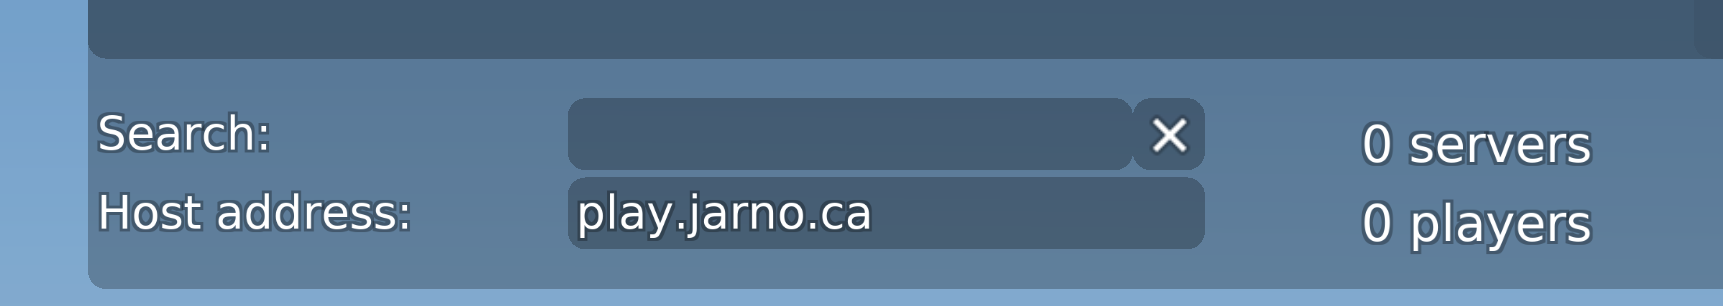
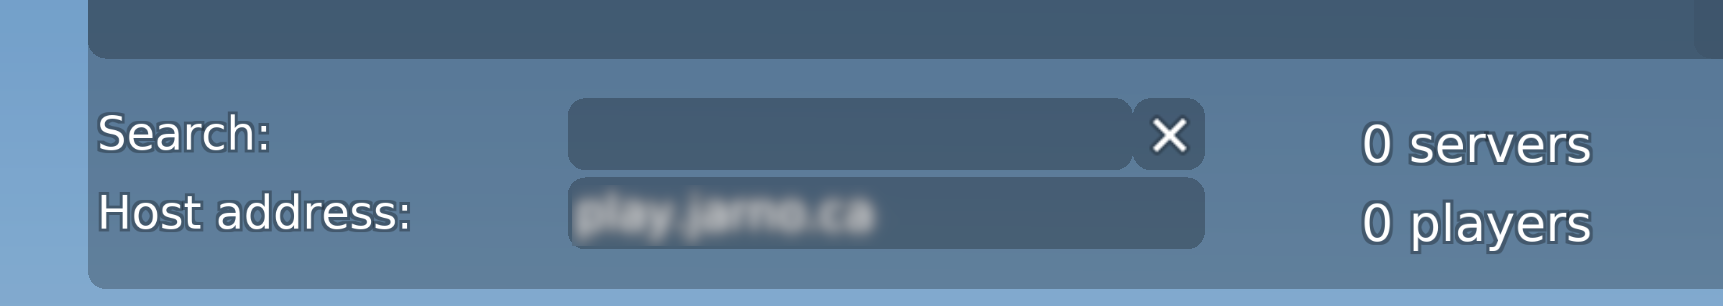
Remove play.jarno.ca from help screenshots

Changed region(s): [[0.3076, 0.6176, 0.5229, 0.7941]]

diff --git a/website/help_teeworlds.html b/website/help_teeworlds.html
@@ -12,6 +12,6 @@ game: teeworlds
           <p>Click on Settings and choose the Player tab. You can fill in your name so we can recognize you when you join the server. The Tee tab will also let you customize your appearance.</p>
           <img src="assets/img/help_teeworlds_name.png" alt="Teeworlds setting for player name" class="img-fluid">
           <p>To connect to the server, got back to the main menu and click Play.</p>
-          <p>At the bottom of the screen you can fill in the name of the server in the Host address field. Type {{ site.content.domain_name }} and press &lt;Enter&gt; or click Connect.</p>
+          <p>At the bottom of the screen you can fill in the name of the server in the Host address field. Type <span class="fw-bold">{{ site.content.domain_name }}</span> and press &lt;Enter&gt; or click Connect.</p>
           <img src="assets/img/help_teeworlds_server.png" alt="Joining the Teeworlds server" class="img-fluid">
           <p>You should now be connected.</p>

diff --git a/website/help_ufoai.html b/website/help_ufoai.html
@@ -20,6 +20,6 @@ cd dist
           <p>Click on Multiplayer. You'll need to create a team before you can do anything, so click on Team and then Generate New Team and choose the type you want.</p>
           <img src="assets/img/help_ufoai.png" alt="Generating a new team" class="img-fluid">
           <p>Click no the done button at the very bottom right if you are happy with it. You'll return to the multiplayer menu</p>
-          <p>Click on Join and type {{ site.content.domain_name }} in the field for Connect to IP and click Connect.</p>
+          <p>Click on Join and type <span class="fw-bold">{{ site.content.domain_name }}</span> in the field for Connect to IP and click Connect.</p>
           <img src="assets/img/help_ufoai_connect.png" alt="Joining the UFO:AI server" class="img-fluid">
           <p>You'll see a summary of the server. Click on Connect to connect.</p>

diff --git a/website/help_shatteredparadise.html b/website/help_shatteredparadise.html
@@ -23,8 +23,8 @@ game: shatteredparadise
           </p>
           <p>
             From the main menu, click on &quot;Multiplayer&quot; and then click
-            on &quot;Direct IP&quot;. Fill in {{ site.content.domain_name }} and set the port at
-            12340. The standard port is 1234, but is already taken. Then click on &quot;Join&quot;
+            on &quot;Direct IP&quot;. Fill in <span class="fw-bold">{{ site.content.domain_name }}</span> and set the port at
+            <span class="fw-bold">12340</span>. The standard port is 1234, but is already taken. Then click on &quot;Join&quot;
           </p>
           <img src="assets/img/help_shatteredparadise.png" alt="The join screen in Shattered Paradise" class="img-fluid">
           <p>You will be placed in the lobby with the other players</p>

diff --git a/website/help_mindustry.html b/website/help_mindustry.html
@@ -17,6 +17,6 @@ game: mindustry
             From the main menu choose &quot;Play&quot; and then &quot;Join
             Game&quot;. You will be able to set you in-game name here.
           </p>
-          <p>To join the server, click on &quot;Add Server&quot; and type in {{ site.content.domain_name }}. When you press Ok, it will be added under &quot;Remote Servers&quot;.</p>
+          <p>To join the server, click on &quot;Add Server&quot; and type in <span class="fw-bold">{{ site.content.domain_name }}</span>. When you press Ok, it will be added under &quot;Remote Servers&quot;.</p>
           <img src="assets/img/help_mindustry.png" alt="The join screen in Mindustry with the server added" class="img-fluid">
           <p>You can then click on the server name to join.</p>

diff --git a/website/help_lix.html b/website/help_lix.html
@@ -12,6 +12,6 @@ game: lix
           <h2>Connecting</h2>
           <p>Click on &quot;Options&quot;. Then under the &quot;General&quot; tab, you can input your player name. Click on &quot;Okay&quot; to confirm.</p>
           <p>Click on &quot;Network Game&quot;.</p>
-          <p>Under address, fill out {{ site.contents.domain_name }} and keep the port set to 22934. Then click on &quot;Okay&quot; to connect.</p>
+          <p>Under address, fill out <span class="fw-bold">{{ site.content.domain_name }}</span> and keep the port set to <span class="fw-bold">22934</span>. Then click on &quot;Okay&quot; to connect.</p>
           <p>You should see a room on the upper right. Click on that to join.</p>
           <p>Choose your colour and then click &quot;Okay&quot;</p>

diff --git a/website/help_minetest.html b/website/help_minetest.html
@@ -11,8 +11,8 @@ game: minetest
           </ul>
           <h2>Connecting</h2>
           <p>
-            Under address fill in {{ site.content.domain_name }} and keep the port at
-            30000. Click on Register to set your in-game name. You can leave the password blank
+            Under address fill in <span class="fw-bold">{{ site.content.domain_name }}</span> and keep the port at
+            <span class="fw-bold">30000</span>. Click on Register to set your in-game name. You can leave the password blank
             since this server will disappear after the event anyway.
           </p>
           <img src="assets/img/help_minetest.png" alt="The register screen in the Minetest client" class="img-fluid">

diff --git a/website/help_bzflag.html b/website/help_bzflag.html
@@ -11,7 +11,7 @@ game: bzflag
           <h2>Connecting</h2>
           <p>Use the arrow keys to nagivate to Join Game and press &lt;Enter&gt;.</p>
           <p>
-            Move down to Server and type {{ site.content.domain_name }} and keep the port number at 5154.
+            Move down to Server and type <span class="fw-bold">{{ site.content.domain_name }}</span> and keep the port number at <span class="fw-bold">5154</span>.
             You can also set your Callsign here. This is how other players will see
             your name. Then move up to Connect and press &lt;Enter&gt;.</p>
           <img src="assets/img/help_bzflag.png" alt="Server join screen for Bzflag" class="img-fluid">

diff --git a/website/help_openhv.html b/website/help_openhv.html
@@ -23,8 +23,8 @@ game: openhv
           </p>
           <p>
             From the main menu, click on &quot;Multiplayer&quot; and then click
-            on &quot;Direct IP&quot;. Fill in {{ site.content.domain_name }} and keep the port at
-            1234. Then click on &quot;Join&quot;
+            on &quot;Direct IP&quot;. Fill in <span class="fw-bold">{{ site.content.domain_name }}</span> and keep the port at
+            <span class="fw-bold">1234</span>. Then click on &quot;Join&quot;
           </p>
           <img src="assets/img/help_openhv.png" alt="The join screen in OpenHV" class="img-fluid">
           <p>You will be placed in the lobby with the other players</p>

diff --git a/website/help_supertuxkart.html b/website/help_supertuxkart.html
@@ -19,8 +19,8 @@ game: supertuxkart
             name. You don't have to set a password.
           </p>
           <p>
-            To connect to out server, click on &quot;Enter server address&quot;.
-            Then type in {{ site.content.domain_name }} and click on &quot;OK&quot;.
+            To connect to our server, click on &quot;Enter server address&quot;.
+            Then type in <span class="fw-bold">{{ site.content.domain_name }}</span> and click on &quot;OK&quot;.
           </p>
           <img src="assets/img/help_supertuxkart.png" alt="Entering the server address" class="img-fluid">
           <p>

diff --git a/website/help_unvanquished.html b/website/help_unvanquished.html
@@ -16,5 +16,5 @@ game: unvanquished
           </ul>
           <h2>Connecting</h2>
           <p>Set your in-game name by clicking on &quot;Player&quot; under &quot;Options&quot;.</p>
-          <p>To connect to the server, press ~ to open the console and type &quot;connect {{ site.content.domain_name }}&quot;</p>
+          <p>To connect to the server, press ~ to open the console and type &quot;<span class="fw-bold">connect {{ site.content.domain_name }}</span>&quot;</p>
           <img src="assets/img/help_unvanquished.png" alt="In-game terminal connecting to the game server" class="img-fluid">

diff --git a/website/help_hedgewars.html b/website/help_hedgewars.html
@@ -26,7 +26,7 @@ game: hedgewars
           </p>
           <p>
             At the bottom, there is a button called &quot;Specify addres&quot;.
-            Fill in {{ site.content.domain_name }} for the host and leave the port number at 46631.
+            Fill in <span class="fw-bold">{{ site.content.domain_name }}</span> for the host and leave the port number at <span class="fw-bold">46631</span>.
           </p>
           <img src="assets/img/help_hedgewars.png" alt="Connection settings for Hedgewars" class="img-fluid">
           <p>

diff --git a/website/help_openspades.html b/website/help_openspades.html
@@ -46,7 +46,7 @@ game: openspades
             to return to the server browser.
           </p>
           <p>
-            To connect to the server, type {{ site.content.domain_name }} in the input field at the
+            To connect to the server, type <span class="fw-bold">{{ site.content.domain_name }}</span> in the input field at the
             top and click on the &quot;Connect&quot; button to the right.
           </p>
           <img src="assets/img/help_openspades.png" alt="The join screen in OpenSpades" class="img-fluid">
